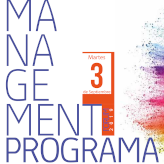
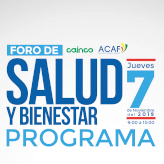
Load schedule

diff --git a/index.html b/index.html
@@ -72,7 +72,7 @@
 				Home Slider Start
 		*************************************-->
 		<div id="tg-homebanner" class="tg-homebanner tg-haslayout">
-			<img src="images/banner/img-01.jpg" alt="image description">
+			<img src="images/banner/banner.jpg" alt="image description">
 		</div>
 		<!--************************************
 				Home Slider End
@@ -93,20 +93,17 @@
 								<div class="tg-textshortcode">
 									<div class="tg-sectionhead tg-textalignleft">
 										<div class="tg-sectionheading">
-											<span>Septiembre 03, 2019 @ 08 - 30 am</span>
+											<span>Noviembre 07, 2019 @ 09:00 a 13:00</span>
 											<h2>LA TEMÁTICA</h2>
 										</div>
 										<div class="tg-description">
 											<p>
-												El foro Internacional de MANAGEMENT 2019, en esta oportunidad se tocarán 2 temáticas claves para
-												el desarrollo empresarial. Ambas conferencias serán dictadas por expertos internacionales,
-												referentes
-												en dichas temáticas.
-											</p>
-											<p>
-												Con tu inscripción al Management fórum cainco, puedes acceder a reuniones individuales
-												con los representantes de las franquicias internacionales más importantes y de diversos
-												sectores.
+												El Foro de Salud y Bienestar, es un evento que tiene como objetivo ser una plataforma en el cual
+												expertos
+												internacionales y nacionales puedan discutir sobre las tendencias en la salud y bienestar de la
+												población en
+												general, con la finalidad de compartir y debatir las mejores prácticas que se van desarrollando
+												en la región.
 											</p>
 										</div>
 										<div class="tg-btnarea">
@@ -134,7 +131,7 @@
 					<div class="tg-eventinfo tg-eventinfovtwo">
 						<div class="tg-eventcontent">
 							<span>Foros CAINCO</span>
-							<h2>MANAGEMENT<span>EMPRESAS FAMILIARES - FRANQUICIAS</span></h2>
+							<h2><span>SALUD Y BIENESTAR</span></h2>
 							<a class="tg-btnaddtocalendar" href="#"><i class="icon-calendar-full"></i></a>
 						</div>
 					</div>
@@ -155,13 +152,16 @@
 									<div class="tg-sectionhead tg-textalignleft">
 										<div class="tg-sectionheading">
 											<span>No te olvides de asistir</span>
-											<h2>Foro / Management</h2>
+											<h2>SALUD Y BIENESTAR</h2>
 										</div>
 										<div class="tg-description">
 											<p>
-												El foro Internacional de MANAGEMENT 2019, en esta oportunidad se tocarán 2 temáticas claves para
-												el desarrollo empresarial. Ambas conferencias serán dictadas por expertos internacionales,
-												referentes en dichas temáticas.
+												El Foro de Salud y Bienestar, es un evento que tiene como objetivo ser una plataforma en el cual
+												expertos
+												internacionales y nacionales puedan discutir sobre las tendencias en la salud y bienestar de la
+												población en
+												general, con la finalidad de compartir y debatir las mejores prácticas que se van desarrollando
+												en la región.
 											</p>
 										</div>
 										<!-- <a class="tg-btndownload" href="javascript:void(0);"><i class="icon-calendar-full"></i><span>Download<em>full schedule</em></span></a> -->
@@ -172,7 +172,7 @@
 										<div role="tabpanel" class="tab-pane active" id="day-one">
 											<div class="tg-eventschaduletime">
 												<h2>FOROS CAINCO</h2>
-												<h3>Management, Empresas Familiares - Franquicias</h3>
+												<h3>SALUD Y BIENESTAR</h3>
 											</div>
 											<div class="tg-eventvenuetabs">
 												<div class="tg-eventvenuecontent tab-content">
@@ -192,7 +192,7 @@
 															</div>
 															<div class="tg-eventspeaker">
 																<figure class="tg-eventspeakerimg">
-																	<img src="images/speakers/logoCrono.jpg" alt="image description">
+																	<img src="images/speakers/default.png" alt="image description">
 																</figure>
 																<br>
 															</div>
@@ -224,105 +224,43 @@
 														<div class="tg-event">
 															<div class="tg-eventhead">
 																<div class="tg-leftarea">
-																	<time datetime="2017-12-12">09:05 am - 10:35 am</time>
+																	<time datetime="2017-12-12">09:05 am - 09:10 am</time>
 																	<div class="tg-title">
-																		<h2>Los retos de las familias empresarias en la actual sociedad del cambio</h2>
+																		<h2>Palabras del Presidente de ACAF</h2>
 																	</div>
 																</div>
 															</div>
-															<div class="tg-description">
-																<p>
-																	Manuel Bermejo ha sido destacado de acuerdo al Family Business Influencers Global
-																	Power List como el 3º experto más influyente del mundo en redes sociales en materia
-																	de empresas familiar y el 1º en lengua española. Es Director General de Programas de
-																	Empresa Familiar en la Unidad de Executive Education de IE Business School.
-																</p>
-															</div>
+															<div class="tg-description"></div>
 															<div class="tg-eventspeaker">
 																<figure class="tg-eventspeakerimg">
-																	<img src="images/speakers/manuelCrono.jpg" alt="image description">
+																	<img src="images/speakers/default.png" alt="image description">
 																</figure>
 																<br>
 																<div class="tg-contentbox">
-																	<div class="tg-speakername">
-																		<h2>Manuel Bermejo</h2>
-																		<span class="tg-eventcatagory">
-																			Presidente en The Family Advisoy Board
-																		</span>
-																	</div>
+																	<div class="tg-speakername"></div>
 																</div>
 															</div>
 														</div>
 
-														<div class="tg-event tg-eventbreak">
+														<div class="tg-event">
 															<div class="tg-eventhead">
 																<div class="tg-leftarea">
-																	<time datetime="2017-12-12">10:35 am - 11:00 am</time>
+																	<time datetime="2017-12-12">09:10 am - 10:10 am</time>
 																	<div class="tg-title">
-																		<h2>Refrigerio - Visita a los stands de los auspiciadores y stands de franquisias.
+																		<h2>Conferencia "De la Salud al Bienestar"
 																		</h2>
 																	</div>
 																</div>
 															</div>
-														</div>
-
-														<div class="tg-event">
-															<div class="tg-eventhead">
-																<div class="tg-leftarea">
-																	<time datetime="2017-12-12">11:00 am - 11:45 am</time>
-																	<div class="tg-title">
-																		<h2>Franquicia aun nueva forma de hacer negocios orientados a los franquiciados</h2>
-																	</div>
-																</div>
-															</div>
-															<div class="tg-description">
-																<p>
-																	Promotor de la cultura al respeto y protección de la propiedad intelectual
-																	Presidente de Consejo y Director de Innovación de Grupo Alcázar & Compañia
-																	firma que dirigió de 1994 a 2018.
-																</p>
-															</div>
+															<div class="tg-description"></div>
 															<div class="tg-eventspeaker">
 																<figure class="tg-eventspeakerimg">
-																	<img src="images/speakers/enriqueCrono.jpg" alt="image description">
+																	<img src="images/speakers/default.png" alt="image description">
 																</figure>
 																<br>
 																<div class="tg-contentbox">
 																	<div class="tg-speakername">
-																		<h2>Enrique Alcázar</h2>
-																		<span class="tg-eventcatagory">Impulsor en Desarrollo y Expansión Empresarial</span>
-																	</div>
-																</div>
-															</div>
-														</div>
-
-														<div class="tg-event">
-															<div class="tg-eventhead">
-																<div class="tg-leftarea">
-																	<time datetime="2017-12-12">11:45 am - 12:30 am</time>
-																	<div class="tg-title">
-																		<h2>Franquicia una nueva forma de hacer negocios orientado a los franquiciantes</h2>
-																	</div>
-																</div>
-															</div>
-															<div class="tg-description">
-																<p>
-																	Promotor de la cultura al respeto y protección de la propiedad intelectual
-																	Presidente de Consejo y Director de Innovación de Grupo Alcázar & Compañia
-																	firma que dirigió de 1994 a 2018.
-																</p>
-															</div>
-															<div class="tg-eventspeaker">
-																<figure class="tg-eventspeakerimg">
-																	<img src="images/speakers/enriqueCrono.jpg" alt="image description">
-																</figure>
-																<br>
-																<div class="tg-contentbox">
-																	<div class="tg-speakername">
-																		<h2>Enrique Alcázar</h2>
-																		<span class="tg-eventcatagory">
-																			Investígadora de Brookings, el think tank más
-																			Impulsor en Desarrollo y Expansión Empresarial.</span>
+																		<h2>Gema Requena (España)</h2>
 																	</div>
 																</div>
 															</div>
@@ -331,9 +269,86 @@
 														<div class="tg-event tg-eventbreak">
 															<div class="tg-eventhead">
 																<div class="tg-leftarea">
-																	<time datetime="2017-12-12">12:30 am - 13:00 am</time>
+																	<time datetime="2017-12-12">10:10 am - 10:30 am</time>
 																	<div class="tg-title">
-																		<h2>Sesión de Preguntas y Respuestas</h2>
+																		<h2>Refrigerio y Visita a los stands de los auspiciadores.</h2>
+																	</div>
+																</div>
+															</div>
+														</div>
+
+														<div class="tg-event">
+															<div class="tg-eventhead">
+																<div class="tg-leftarea">
+																	<time datetime="2017-12-12">10:30 am - 11:15 am</time>
+																	<div class="tg-title">
+																		<h2>II parte, Conferencia "De la Salud al Bienestar"</h2>
+																	</div>
+																</div>
+															</div>
+															<div class="tg-description">
+																<p></p>
+															</div>
+															<div class="tg-eventspeaker">
+																<figure class="tg-eventspeakerimg">
+																	<img src="images/speakers/default.png" alt="image description">
+																</figure>
+																<br>
+																<div class="tg-contentbox">
+																	<div class="tg-speakername">
+																		<h2>Gema Requema (España)</h2>
+																	</div>
+																</div>
+															</div>
+														</div>
+
+														<div class="tg-event">
+															<div class="tg-eventhead">
+																<div class="tg-leftarea">
+																	<time datetime="2017-12-12">11:15 am - 11:45 am</time>
+																	<div class="tg-title">
+																		<h2>Estudio de Mercado: "Entendiendo de los estilos de vida de los bolivianos en
+																			cuanto a su salud, nutrición y bienestar"</h2>
+																	</div>
+																</div>
+															</div>
+															<div class="tg-description">
+																<p></p>
+															</div>
+															<div class="tg-eventspeaker">
+																<figure class="tg-eventspeakerimg">
+																	<img src="images/speakers/default.png" alt="image description">
+																</figure>
+																<br>
+																<div class="tg-contentbox">
+																	<div class="tg-speakername">
+																		<h2>Roger López (Bolivia)</h2>
+																	</div>
+																</div>
+															</div>
+														</div>
+
+														<div class="tg-event">
+															<div class="tg-eventhead">
+																<div class="tg-leftarea">
+																	<time datetime="2017-12-12">11:45 am - 12:45 am</time>
+																	<div class="tg-title">
+																		<h2>"Normativa que regula los Programas de Seguridad y Salud Ocupacional en el
+																			Trabajo (PSST)"</h2>
+																	</div>
+																</div>
+															</div>
+															<div class="tg-description">
+																<p></p>
+															</div>
+															<div class="tg-eventspeaker">
+																<figure class="tg-eventspeakerimg">
+																	<img src="images/speakers/default.png" alt="image description">
+																</figure>
+																<br>
+																<div class="tg-contentbox">
+																	<div class="tg-speakername">
+																		<h2>Ruben Zabaleta (Bolivia)</h2>
 																	</div>
 																</div>
 															</div>
@@ -342,9 +357,9 @@
 														<div class="tg-event tg-eventbreak">
 															<div class="tg-eventhead">
 																<div class="tg-leftarea">
-																	<time datetime="2017-12-12">15:00 am - 18:30</time>
+																	<time datetime="2017-12-12">12:45 am - 13:00</time>
 																	<div class="tg-title">
-																		<h2>Reuniones individuales con Cámaras representates de franquicias</h2>
+																		<h2>Sesión de preguntas y respuestas</h2>
 																	</div>
 																</div>
 															</div>

diff --git a/js/main.js b/js/main.js
@@ -123,7 +123,7 @@ jQuery(document).on('ready', function () {
 			NEXT EVENT COUNTER
 	-------------------------------------- */
 	var _tg_upcomingeventcounter = jQuery('#tg-upcomingeventcounter');
-	_tg_upcomingeventcounter.countdown('2019/09/03', function (event) {
+	_tg_upcomingeventcounter.countdown('2019/11/07', function (event) {
 		var $this = jQuery(this).html(event.strftime(''
 			+ '<div class="tg-eventcounter"><span>%-D</span><span> Dias restantes</span></div>'
 			+ '<div class="tg-eventcounter"><span>%H</span><span>Horas</span></div>'
@@ -135,7 +135,7 @@ jQuery(document).on('ready', function () {
 			NEXT EVENT COUNTER
 	-------------------------------------- */
 	var _tg_upcomingeventcountervtwo = jQuery('#tg-upcomingeventcountervtwo');
-	_tg_upcomingeventcountervtwo.countdown('2019/09/03', function (event) {
+	_tg_upcomingeventcountervtwo.countdown('2019/11/07', function (event) {
 		var $this = jQuery(this).html(event.strftime(''
 			+ '<div class="tg-eventcounterholder"><div class="tg-eventcounter"><span>%-D</span><span> Days</span></div></div>'
 			+ '<div class="tg-eventcounterholder"><div class="tg-eventcounter"><span>%H</span><span>Horas</span></div></div>'
